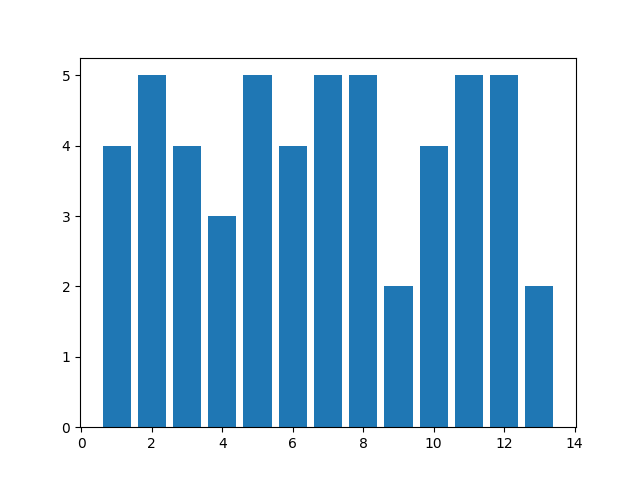
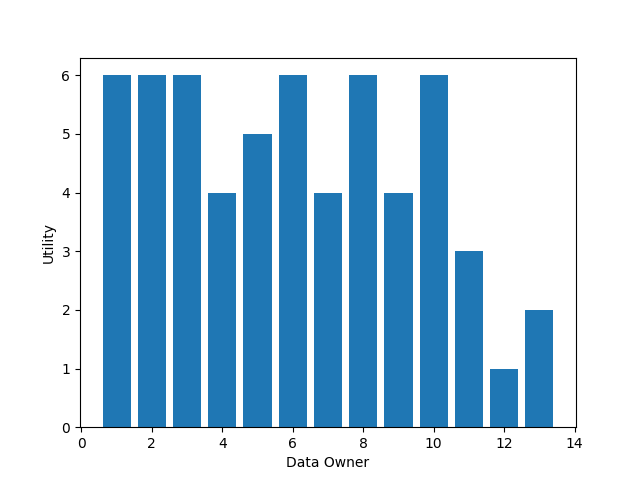
auction 3

diff --git a/auction2.py b/auction2.py
@@ -2,18 +2,20 @@
 import random
 import statistics
 import math
+import time
 # from matplotlib import *
 import matplotlib.pyplot as plt
 
 import numpy as np
-
+# begin = time.time()
 #Algorithm 1
 # m = int(input("Enter no of model owners:"))
 # n = int(input("Enter no of users:"))
 
 m = random.randint(5,10)
 n = random.randint(11,25)
-
+# n=100
+# m=100
 
 
 D =[]
@@ -22,7 +24,7 @@ for i in range(n):
     D.append(random.randint(2,10))
 
 D.sort()
-print(D)
+#print(D)
 
 C = []
 k = 0
@@ -104,7 +106,7 @@ for i in Y:
                     break
                 X[i] = T[bid.index(ma)]
                 P[X[i]] = C[i-1][X[i]-1]
-    print(T)
+    #print(T)
 
 O = {} #Owner Mapping
 G = {} 
@@ -132,10 +134,8 @@ for i in X:
     userutil[i] = Q[i] - Cost[i]
 
 for i in O:
-    try:
         ownerutil[i] = Val[i] - P[i]
-    except:
-        ownerutil[i] = 0
+   
 
 for i in O:
     Z = O[i]
@@ -164,11 +164,13 @@ for i in O:
             l = random.randint(0,b)
             Owner[i] = Z[b]
 
-print(P)
-print(Q)
-print(G)
-print(userutil)
-print(ownerutil)
+# print(P)
+# print(Q)
+# print(G)
+# print(userutil)
+# print(ownerutil)
+# end = time.time()
+# print(end-begin)
 
 
 # x_axis = [i for i in ownerutil]
@@ -183,11 +185,15 @@ print(ownerutil)
 x_axis  = [i for i in ownerutil]
 y_axis  = [ownerutil[i] for i in ownerutil]
 plt.bar(x_axis,y_axis)
+plt.xlabel('Model Owner')
+plt.ylabel('Utility')
 plt.show() 
 
 x_axis = [i for i in userutil]
 y_axis = [userutil[i] for i in userutil]
 plt.bar(x_axis,y_axis)
+plt.xlabel('Data Owner')
+plt.ylabel('Utility')
 plt.show()
 
 barwidth = 0.25
@@ -210,6 +216,8 @@ plt.legend()
 plt.show()
 
 #Payments and Demands of users
+barwidth = 0.25
+fig = plt.subplots(figsize =(12, 8))
 dem = [D[i] for i in X]
 payme = [Q[i] for i in X]
 br1 = np.arange(len(dem))
